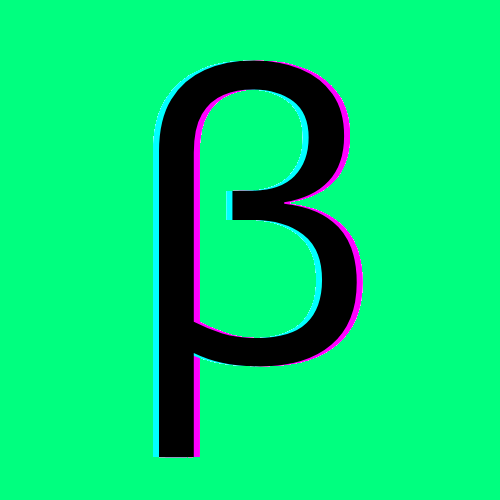
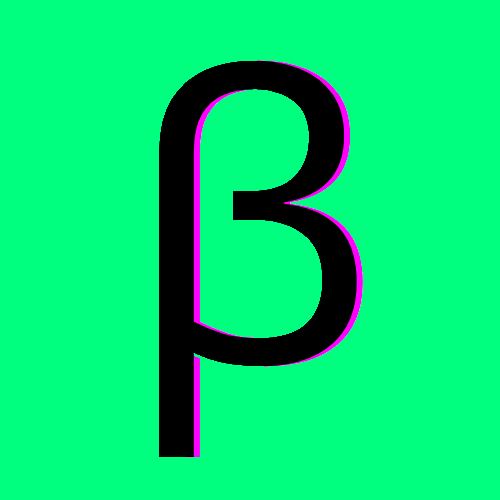
added alternating birds and better colours for green planet greek symbols

diff --git a/frontend/src/react_components/AnswerGrid.jsx b/frontend/src/react_components/AnswerGrid.jsx
@@ -19,10 +19,12 @@ import image4c from './assets/pokie_images/4c.png';
 import image5a from './assets/pokie_images/5a.png';
 import image5b from './assets/pokie_images/5b.png';
 import image5c from './assets/pokie_images/5c.png';
+import image8a from './assets/pokie_images/8a.png';
+import image8b from './assets/pokie_images/8b.png';
+import image8c from './assets/pokie_images/8c.png';
 
 import image6 from './assets/pokie_images/6.png';
 import image7 from './assets/pokie_images/7.png';
-import image8 from './assets/pokie_images/8.png';
 import image9 from './assets/pokie_images/9.png';
 import image10 from './assets/pokie_images/10.png';
 import image11 from './assets/pokie_images/11.png';
@@ -30,7 +32,7 @@ import image12 from './assets/pokie_images/12.png';
 
 
 export function AnswerGrid(props) {
-  const images = [image0a, image1a, image2a, image3a, image4a, image5a, image6, image7, image8, image9, image10, image11, image12];
+  const images = [image0a, image1a, image2a, image3a, image4a, image5a, image6, image7, image8a, image9, image10, image11, image12];
 	if (props.gameState === 'green') {
 		images[0] = image0a
 		images[1] = image1a
@@ -38,6 +40,7 @@ export function AnswerGrid(props) {
 		images[3] = image3a
 		images[4] = image4a
 		images[5] = image5a
+		images[8] = image8a
 	} else if (props.gameState === 'yellow') {
 		images[0] = image0b
 		images[1] = image1b
@@ -45,6 +48,7 @@ export function AnswerGrid(props) {
 		images[3] = image3b
 		images[4] = image4b
 		images[5] = image5b
+		images[8] = image8b
 	} else if (props.gameState === 'red') {
 		images[0] = image0c
 		images[1] = image1c
@@ -52,6 +56,7 @@ export function AnswerGrid(props) {
 		images[3] = image3c
 		images[4] = image4c
 		images[5] = image5c
+		images[8] = image8c
 	}
 
   return (
